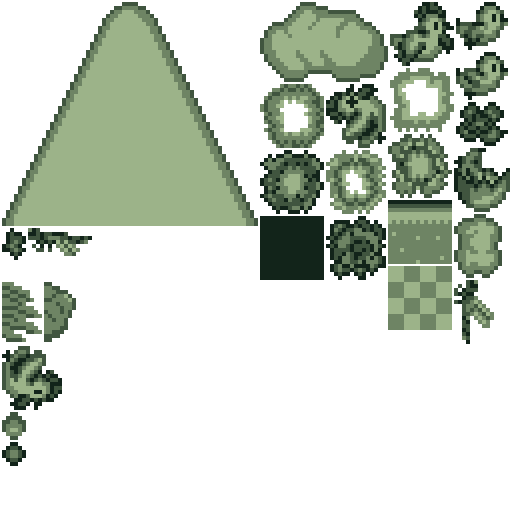
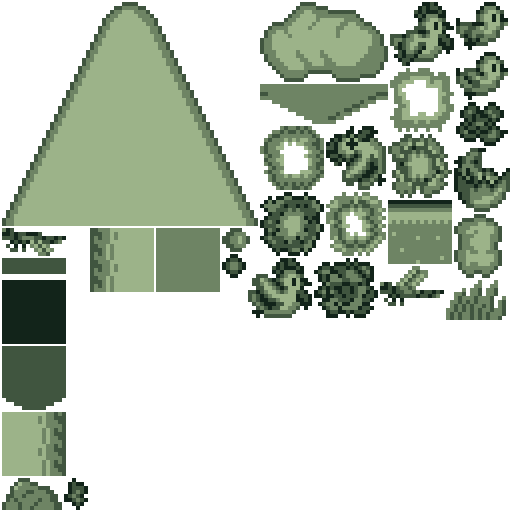
背景「森」追加。キャラクターが画面範囲外にいても内側に向かって移動している場合は削除しないように修正。スクリプト読み込みで空行でエラーになっていたものを修正。

Changed region(s): [[0.0, 0.1562, 1.0, 1.0]]

diff --git a/toritoma/PlayingScene/AKCharacter.m b/toritoma/PlayingScene/AKCharacter.m
@@ -498,6 +498,8 @@ static NSString *kAKImageFileFormat = @"%@_%02d.png";
  @brief 画面外配置判定
  
  キャラクターが画面範囲外に配置されているか調べる。
+ 座標が範囲外で、外側に向かって移動している場合は範囲外とみなす。
+ 範囲内に向かって移動している場合は範囲内とみなす。
  @return 範囲外に出ている場合はTRUE、範囲内にある場合はFALSE
  */
 - (BOOL)isOutOfStage
@@ -505,10 +507,10 @@ static NSString *kAKImageFileFormat = @"%@_%02d.png";
     // 表示範囲外でキャラクターを残す範囲
     const float kAKBorder = 50.0f;
     
-    if (self.positionX < -kAKBorder ||
-        self.positionX > [AKScreenSize stageSize].width + kAKBorder ||
-        self.positionY < -kAKBorder ||
-        self.positionY > [AKScreenSize stageSize].height + kAKBorder) {
+    if ((self.positionX < -kAKBorder && self.speedX < 0.0f) ||
+        (self.positionX > [AKScreenSize stageSize].width + kAKBorder && self.speedX > 0.0f) ||
+        (self.positionY < -kAKBorder && self.speedY < 0.0f) ||
+        (self.positionY > [AKScreenSize stageSize].height + kAKBorder && self.speedY > 0.0f)) {
         
         return TRUE;
     }

diff --git a/toritoma/PlayingScene/AKScript.m b/toritoma/PlayingScene/AKScript.m
@@ -107,16 +107,17 @@ static NSString *kAKScriptFileName = @"stage_%d";
         
         // 1行の文字列を取得する
         NSString *line = [stageScript substringWithRange:lineRange];
-        AKLog(kAKLogScript_2, @"%@", line);
+        AKLog(kAKLogScript_2, @"%@:", line);
         
         // 1文字目が"#"の場合は処理を飛ばす
         if ([[line substringToIndex:1] isEqualToString:@"#"]) {
-            AKLog(kAKLogScript_0, @"コメント:%@", line);
+            AKLog(kAKLogScript_1, @"コメント:%@", line);
             continue;
         }
         
         // 空行は処理を飛ばす
-        if ([line stringByTrimmingCharactersInSet:[NSCharacterSet whitespaceCharacterSet]].length <= 0) {
+        if ([line stringByTrimmingCharactersInSet:[NSCharacterSet whitespaceAndNewlineCharacterSet]].length <= 0) {
+            AKLog(kAKLogScript_1, @"空行");
             continue;
         }
         

diff --git a/toritoma/PlayingScene/AKBack.m b/toritoma/PlayingScene/AKBack.m
@@ -38,7 +38,7 @@
 /// 画像名のフォーマット
 static NSString *kAKImageNameFormat = @"Back_%02d";
 /// 障害物の種類の数
-static const NSInteger kAKBackDefCount = 6;
+static const NSInteger kAKBackDefCount = 11;
 
 /// 障害物定義
 static const struct AKBackDef kAKBackDef[kAKBackDefCount] = {
@@ -47,7 +47,12 @@ static const struct AKBackDef kAKBackDef[kAKBackDefCount] = {
     {3, 1, 0.0f},
     {4, 1, 0.0f},
     {5, 1, 0.0f},
-    {6, 1, 0.0f}
+    {6, 1, 0.0f},
+    {7, 1, 0.0f},
+    {8, 1, 0.0f},
+    {9, 1, 0.0f},
+    {10, 1, 0.0f},
+    {11, 1, 0.0f}
 };
 
 /*!

diff --git a/toritoma/Common/AKLogNoDef.m b/toritoma/Common/AKLogNoDef.m
@@ -77,7 +77,7 @@ BOOL kAKLogPlayingScene_3 = NO;
 BOOL kAKLogPlayingSceneIF_0 = YES;
 BOOL kAKLogPlayingSceneIF_1 = YES;
 BOOL kAKLogScript_0 = YES;
-BOOL kAKLogScript_1 = YES;
+BOOL kAKLogScript_1 = NO;
 BOOL kAKLogScript_2 = NO;
 BOOL kAKLogScriptData_0 = YES;
 BOOL kAKLogScriptData_1 = NO;
